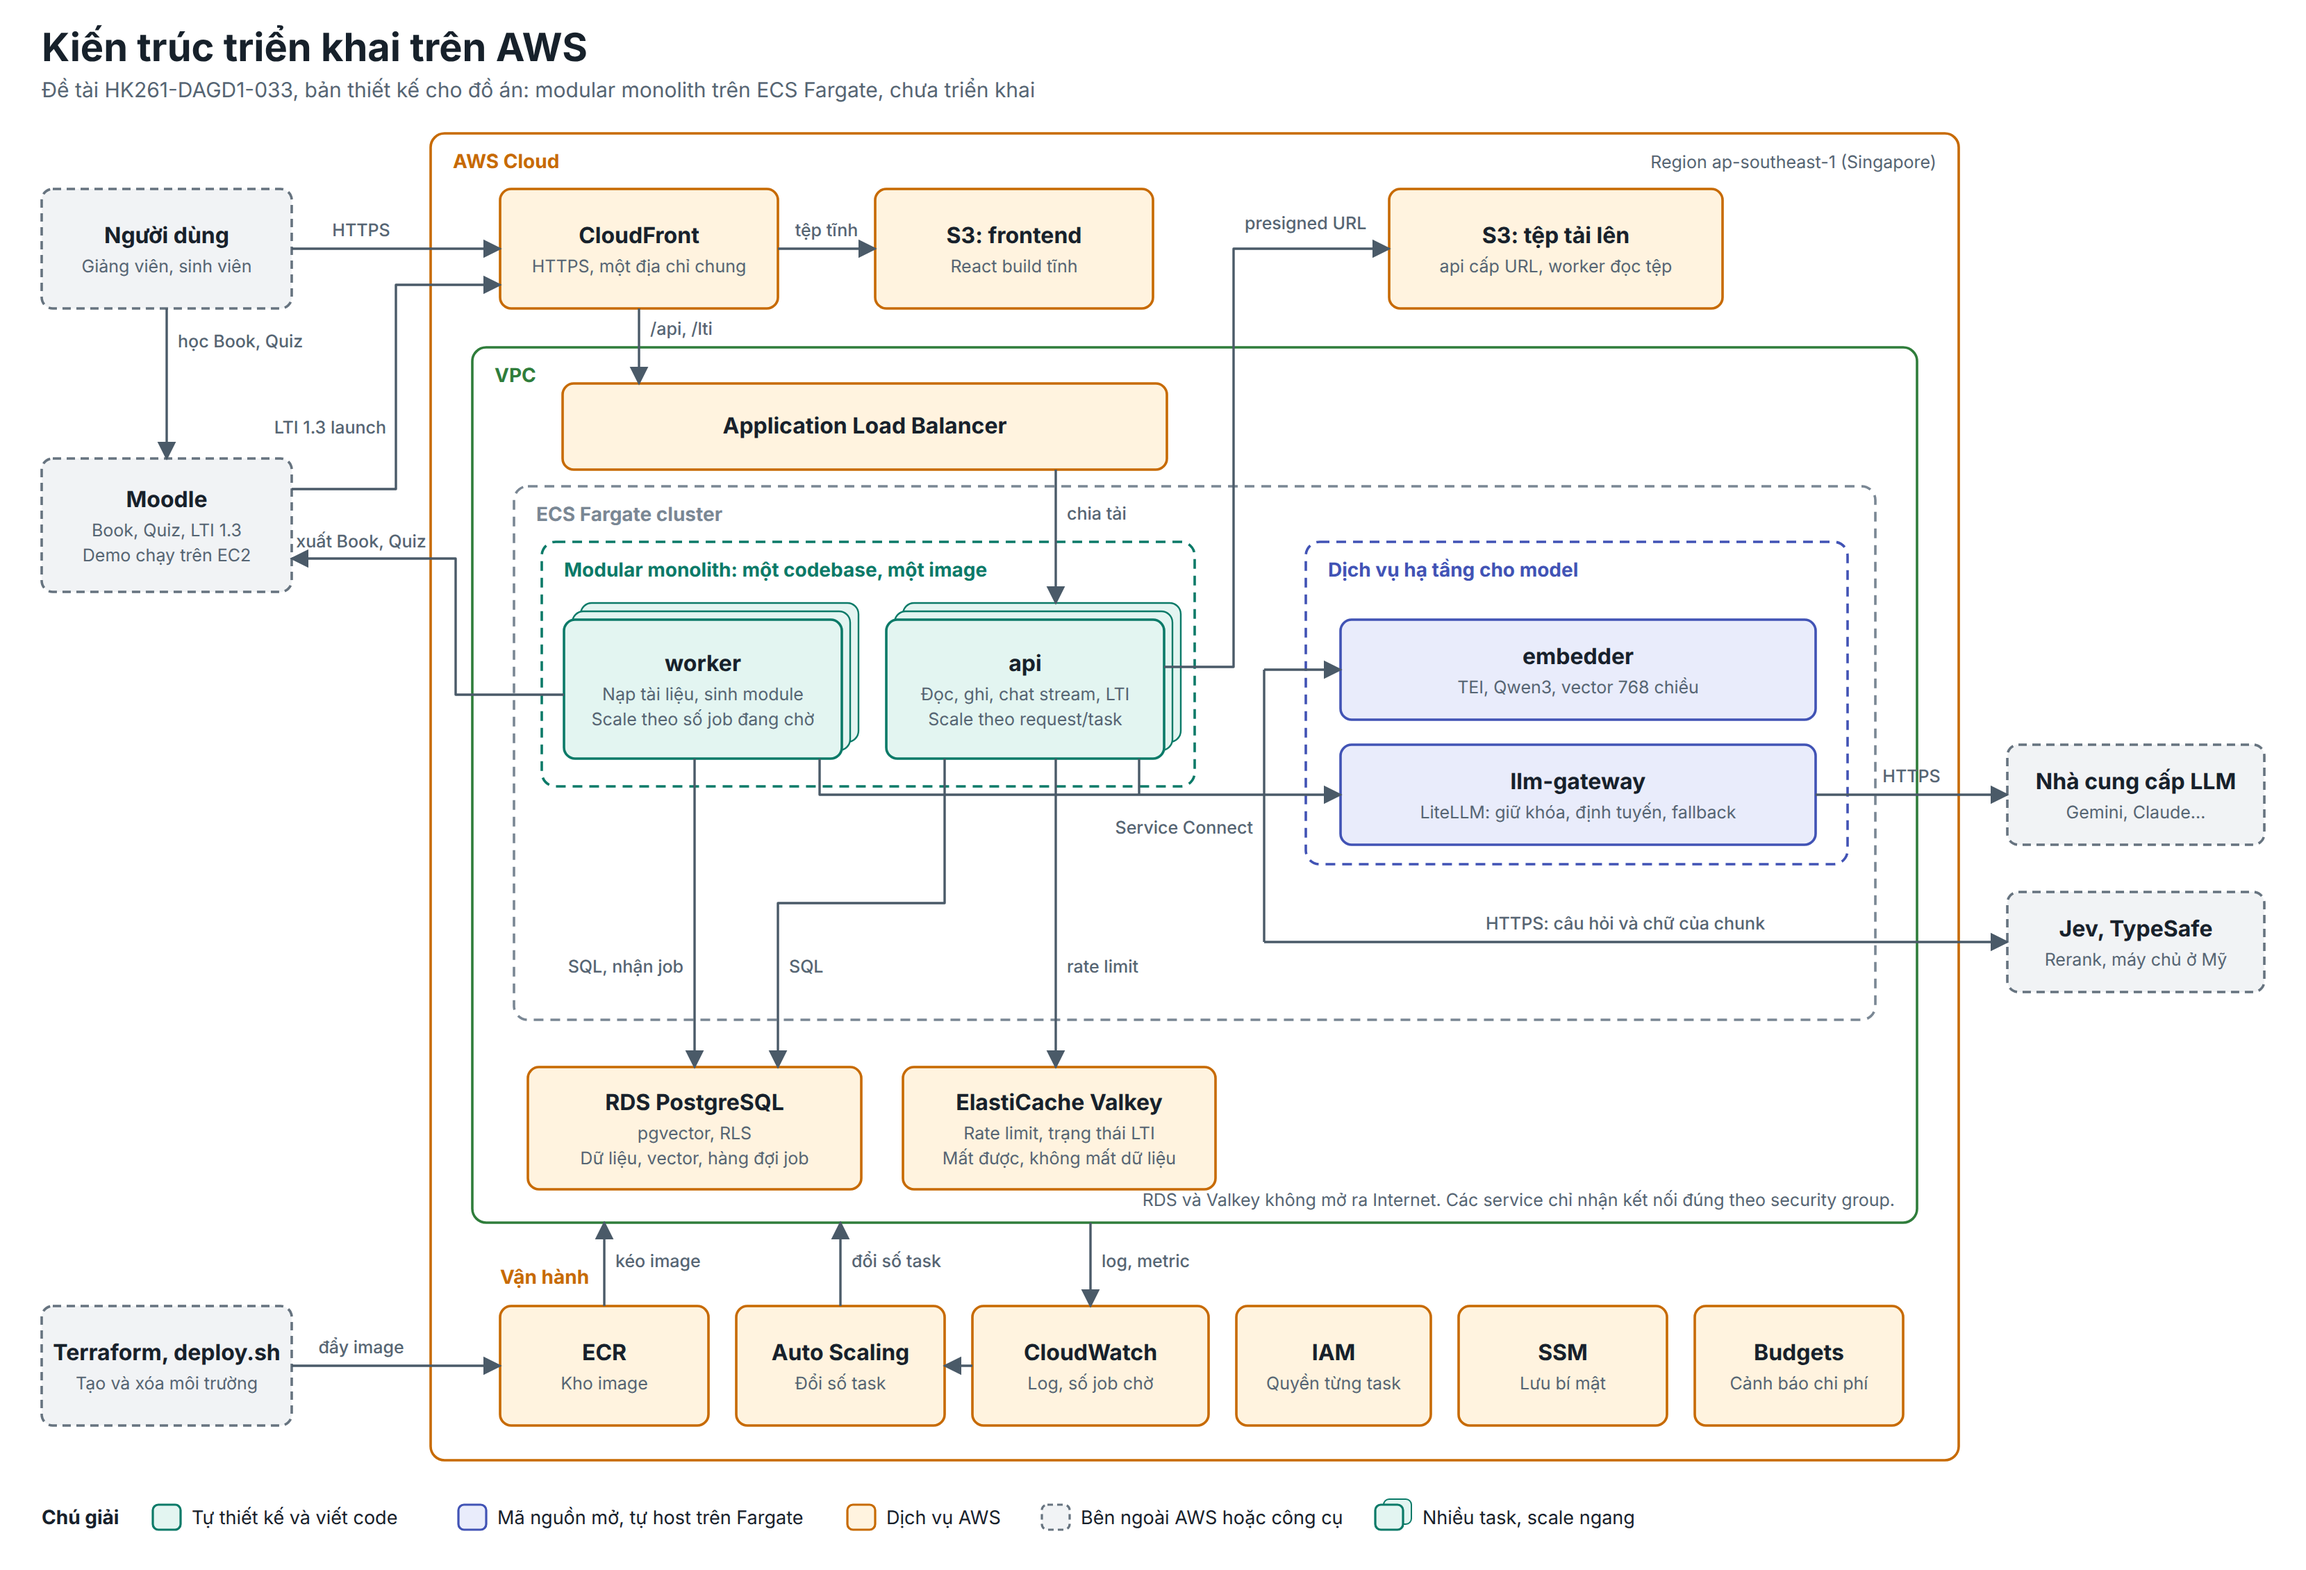
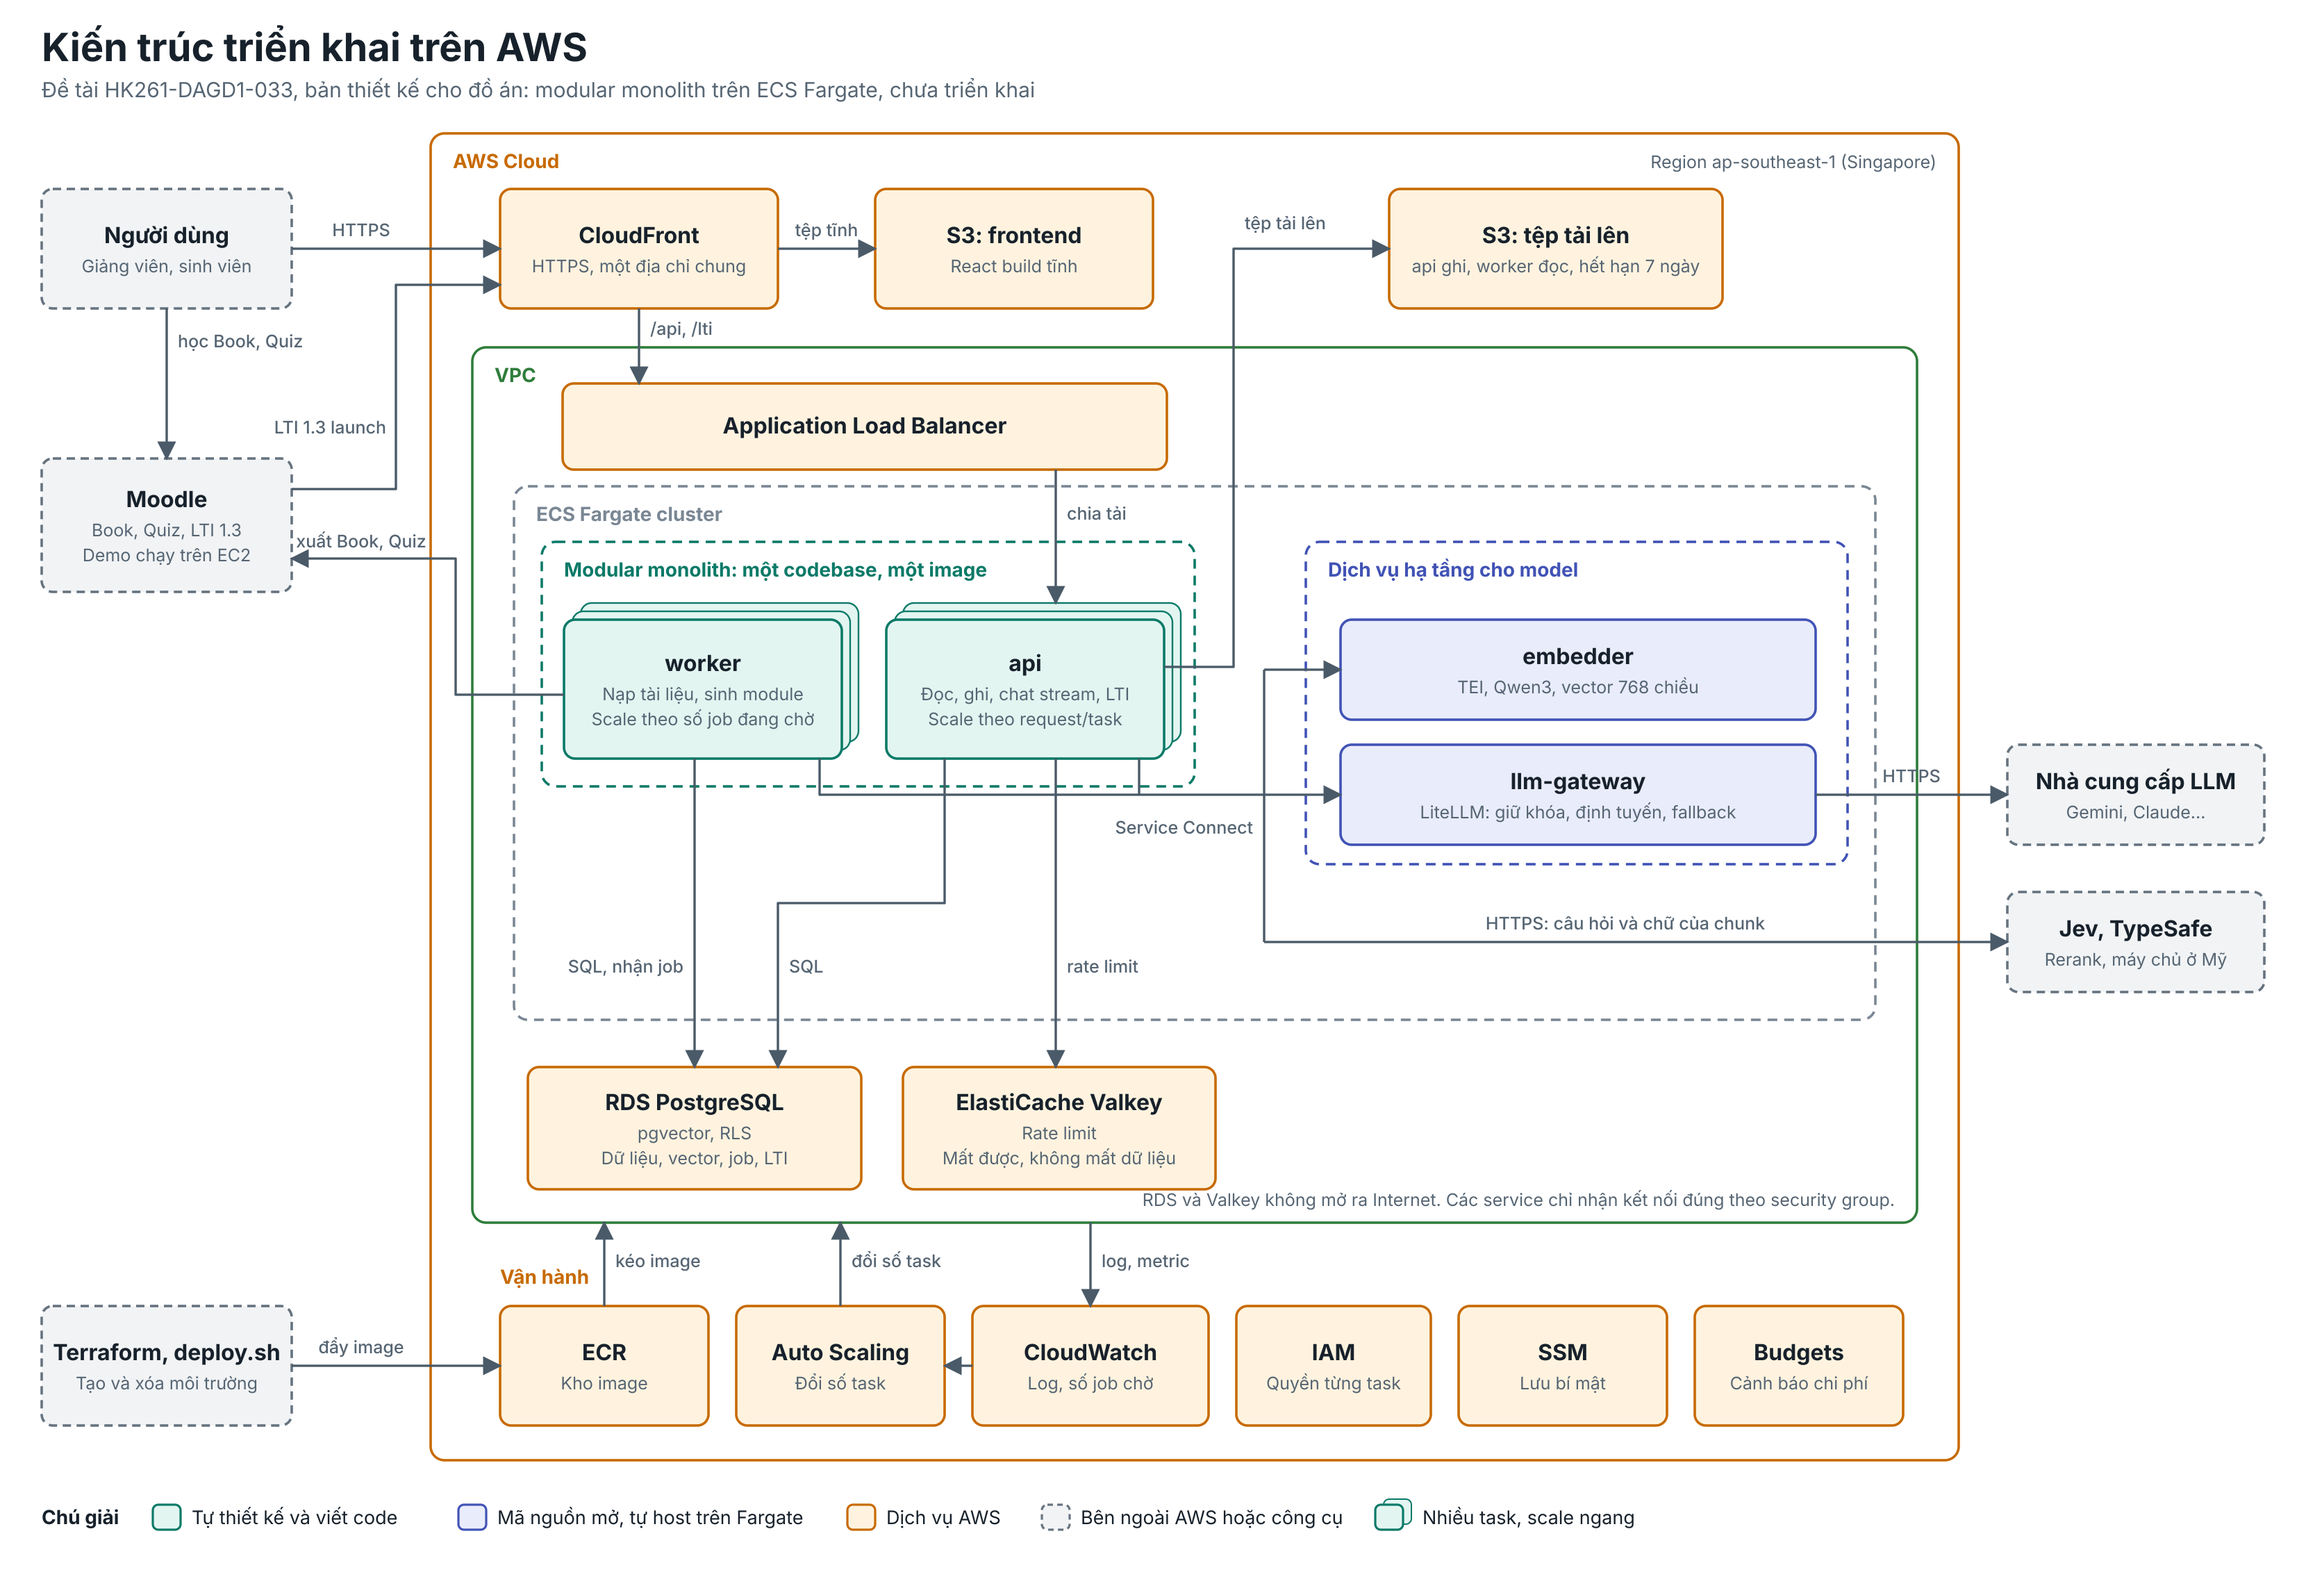
fix(infra): restart a failed first deployment, unique RDS snapshot names (#80)
* fix(infra): restart a failed first deployment, unique RDS snapshot names

The first full apply on a real account showed three things that would
break the next one:

- deploy.sh: after the migration, start again any service whose last
  deployment the circuit breaker failed. On the first deploy api fails
  /ready until the migration has made the database roles, and the apply
  that follows changes nothing because the tag is the same.
- The RDS final snapshot had a fixed name, so a second destroy failed
  while the previous snapshot existed. It now ends in a random suffix
  made with each database.
- deploy.sh is executable in git.

The docs said uploads go to S3 by presigned URL and the AWS diagram
kept LTI state in Valkey; the api receives the file and puts it in S3,
and LTI state is in Postgres. The README notes that the SNS email must
be confirmed again and that destroy removes the ECR images too.

* docs(architecture): keep LTI state in Postgres in the launch sequence

* docs(architecture): a Valkey outage does not affect LTI launches

---------

diff --git a/docs/architecture/scalable-design.md b/docs/architecture/scalable-design.md
@@ -132,7 +132,7 @@ lại với tài liệu lớn.
 | Database | RDS PostgreSQL + pgvector | Backup, PITR, Multi-AZ chỉ là một tham số. Giữ được RLS | Aurora: giá trị thể hiện ở tải lớn hơn. Vector DB riêng: thêm hệ thống phải đồng bộ quyền, trong khi retrieval lọc theo từng khóa | CPU cao kéo dài | Thấp: `pg_dump` |
 | Hàng đợi | Giữ bảng Postgres, đẩy độ sâu lên CloudWatch | Lượng job rất nhỏ. Tạo job cùng transaction với dữ liệu nên không cần outbox. Đã có heartbeat, retry, đã test tải | SQS: cần outbox để tránh ghi lệch, trong khi trạng thái job vẫn phải ở Postgres | Vượt khoảng 100 job/s, hoặc polling thành tải đáng kể | Không có |
 | Cache, bộ đếm | ElastiCache Valkey | Không phải vá và theo dõi. Rẻ hơn Redis 20% theo bảng giá, cùng giao thức | Redis tự chạy: tiết kiệm ít, thêm một task phải giữ sống | | Thấp |
-| Tệp | S3, upload trực tiếp bằng presigned URL | Bền, không cần ổ dùng chung, API không phải chịu băng thông upload | EFS: đắt và phức tạp hơn, giữ kiểu dùng file không cần thiết | | Thấp: API tương thích MinIO |
+| Tệp | S3: api nhận tệp rồi đẩy lên, worker tải về khi xử lý | Bền, không cần ổ dùng chung giữa api và worker. Api chặn kích thước khi đang nhận và kiểm số trang, thời lượng trước khi tạo job | EFS: đắt và phức tạp hơn, giữ kiểu dùng file không cần thiết. Presigned URL: api không phải chịu băng thông upload, nhưng phải kiểm tệp sau khi đã lên S3 | Băng thông upload qua api thành nút cổ chai, hoặc video 1 GB chạm giới hạn 60 s của CloudFront | Thấp: API tương thích MinIO |
 | Frontend | S3 + CloudFront | Không tốn compute, có CDN, có HTTPS | Container Vite: chỉ hợp để phát triển | | Thấp |
 | Cửa vào | CloudFront, ALB | Một tên miền cho tệp tĩnh và API, tránh CORS, có sẵn HTTPS. Định tuyến theo đường dẫn | API Gateway: giới hạn thời gian không hợp stream | | Thấp |
 | Gọi nội bộ | ECS Service Connect | Tự cân bằng tải và thử lại giữa các task, không cần ALB nội bộ | ALB nội bộ: thêm phí giờ. Cloud Map DNS: phụ thuộc cache DNS | | Thấp |
@@ -224,7 +224,7 @@ dùng RDS Proxy vì tài liệu AWS không khẳng định `SET LOCAL` tránh đ
 | Worker chết, Spot thu hồi | Heartbeat phát hiện, job chạy lại, tối đa số lần cho phép | Có sẵn, cần test Spot |
 | Reranker lỗi | Thử lại với backoff, sau đó chat dùng hybrid | Thử lại có sẵn, hybrid cần làm |
 | Nhà cung cấp LLM lỗi hoặc 429 | Gateway thử lại và fallback theo cấu hình | Có sẵn |
-| Valkey mất | Rate limit theo từng task, LTI launch tạm thất bại | Rate limit có sẵn |
+| Valkey mất | Rate limit theo từng task; LTI không bị ảnh hưởng vì state nằm trong Postgres | Rate limit có sẵn |
 | RDS lỗi | Vận hành thật: Multi-AZ tự chuyển. Demo: khôi phục từ snapshot | Một tham số Terraform |
 | Một AZ mất | Tầng ứng dụng chạy trên 2 AZ. NAT một AZ là điểm yếu đã chấp nhận vì chi phí | Theo thiết kế |
 | Deploy lỗi | Circuit breaker của ECS tự quay về bản trước | Cần cấu hình |
@@ -238,7 +238,7 @@ Quy tắc chung: mọi lệnh gọi mạng có timeout và retry có backoff, jo
 - **Danh tính:** IAM role riêng cho từng task, quyền tối thiểu. GitHub Actions dùng OIDC, không lưu access key lâu dài. Không SSH, debug bằng ECS Exec khi cần.
 - **Bí mật:** Parameter Store, chỉ gateway đọc được khóa LLM, giữ nguyên nguyên tắc backend không thấy khóa.
 - **Dữ liệu:** mã hóa khi lưu bằng KMS khóa mặc định, TLS khi truyền. RLS tiếp tục là lớp phòng thủ thứ hai. Backend dùng role `app_runtime` và `app_worker`, không dùng owner.
-- **Upload:** presigned URL ngắn hạn, kiểm tra kích thước và định dạng lúc xử lý.
+- **Upload:** qua api, chặn kích thước ngay khi đang nhận (tài liệu 25 MB, âm thanh 200 MB, video 1 GB), kiểm số trang và thời lượng trước khi tạo job. Tệp trên S3 tự hết hạn sau 7 ngày.
 - **Dữ liệu gửi cho LLM:** tài liệu môn học đi qua nhà cung cấp bên ngoài, cần nêu trong báo cáo và điều khoản sử dụng.
 
 ## 10. CI/CD và vận hành
@@ -364,17 +364,17 @@ sequenceDiagram
     participant B as Trình duyệt
     participant M as Moodle (Platform)
     participant T as chat (Tool)
-    participant V as Valkey
+    participant P as Postgres
     B->>M: Mở hoạt động External tool
     M->>T: OIDC login initiation
-    T->>V: Lưu state, nonce (TTL ngắn)
+    T->>P: Lưu state, nonce (hết hạn sau 10 phút)
     T->>B: Chuyển hướng đến auth của Moodle
     B->>M: Yêu cầu xác thực
     M->>T: id_token (JWT) + state
-    T->>V: Kiểm tra và xóa state, nonce
+    T->>P: Xóa state và lấy nonce trong cùng một lệnh (DELETE ... RETURNING)
     T->>M: Lấy JWKS (có cache), kiểm tra chữ ký
     T->>T: Ánh xạ (iss, sub, deployment) sang user, context sang course, role sang quyền
-    T->>B: Phiên của ứng dụng
+    T->>B: Mã launch dùng một lần, đổi lấy token của ứng dụng
 ```
 
 Lưu ý khi cài đặt:
